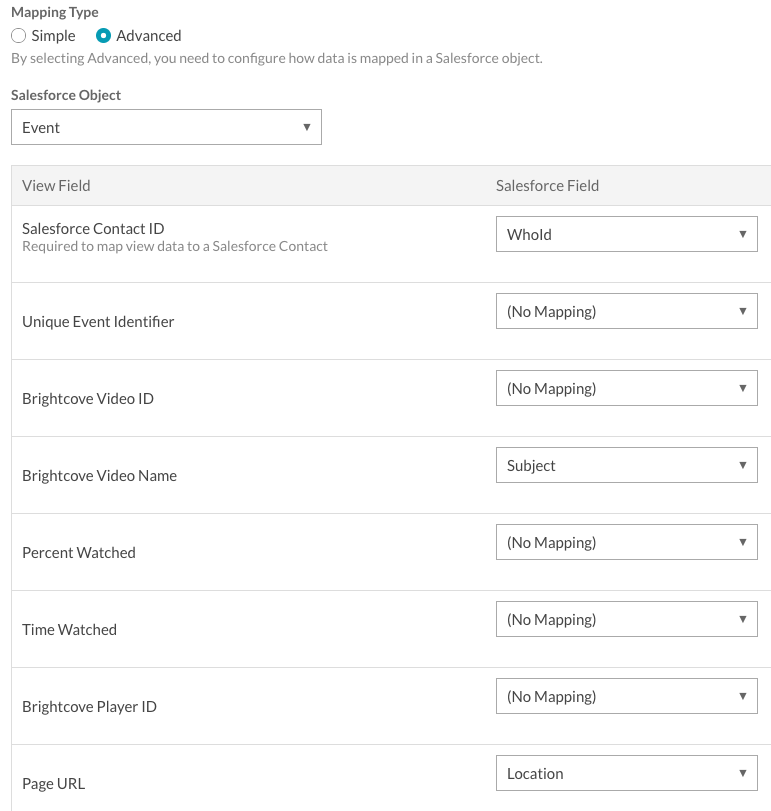
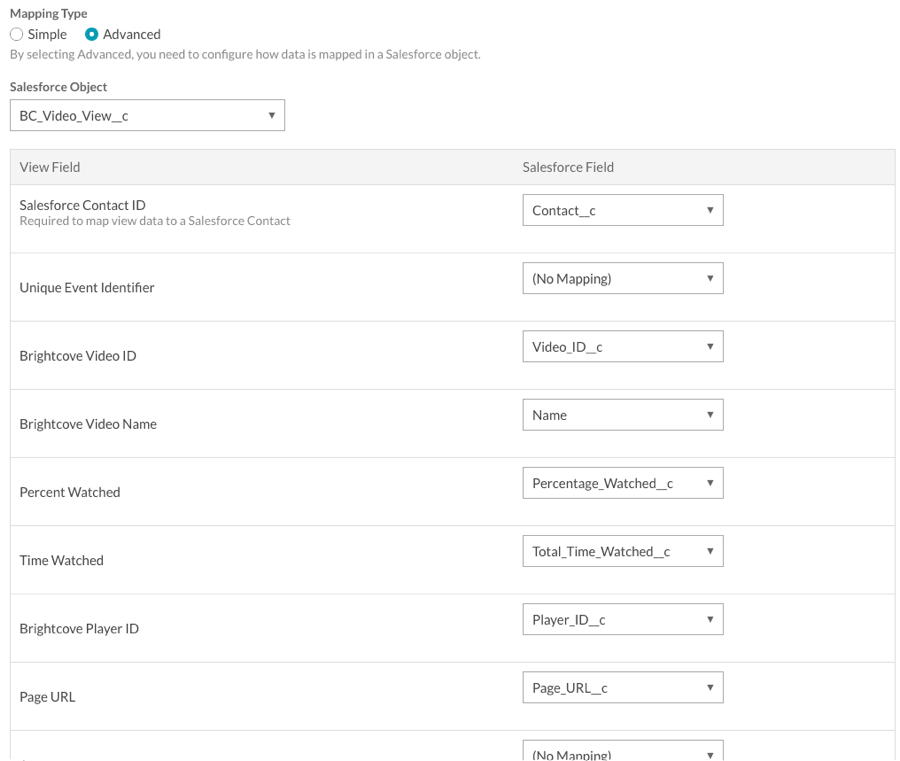
update salesforce screen shots

diff --git a/_site/admin/connecting-to-salesforce.html b/_site/admin/connecting-to-salesforce.html
@@ -480,7 +480,7 @@ function doGTranslate(lang_pair) {if(lang_pair.value)lang_pair=lang_pair.value;i
       <li>In the <strong>Salesforce Object</strong> dropdown list, select a Salesforce object to map the video data to. Typically, when using the Pardot integration type, you will map the view fields to the <a href="/admin/creating-salesforce-object-pardot.html">Salesforce custom object</a> you created.
         </p>
       </li>
-      <li>Map the appropriate <strong>View Field</strong> to Salesforce fields.
+      <li>Map the appropriate <strong>View Field</strong> to Salesforce fields. The following example shows the video fields being mapped to a custom object.
         <figure class="bcls-figure"><img class="bcls-image--no-border" alt="salesforce advanced mapping" src="/assets/images/admin/salesforce-adv-mapping.png" /></figure>
       </li>
       <li>Click <strong>Save</strong> to save the changes.</li>
@@ -521,10 +521,10 @@ function doGTranslate(lang_pair) {if(lang_pair.value)lang_pair=lang_pair.value;i
   </section>
   <section class="bcls-section">
     <h2 id="sfdata">Viewing video data in Salesforce</h2>
-    <p>As videos are viewed, video viewing data will be synced to Salesforce. If the <strong>Simple</strong> data mapping option was selected, video view data will appear as a <strong>Task</strong> entry inside Salesforce. If the <strong>Advanced</strong> data mapping option was used, viewing data will appear as part of the Salesforce object that was selecting when the mapping was configured. In the following example, <strong>Simple</strong> data mapping was used. Viewing data appears as part of the contact's <strong>Activity History</strong>. The <strong>Subject</strong> will display <strong>BC Video View</strong> along with the video name and percent watched.</p>
-    <figure class="bcls-figure"><img class="bcls-image--no-border" alt="salesforce task record" src="/assets/images/admin/salesforce-task-record.png" /></figure>
-    <p>Clicking the <strong>Task</strong> will display additional information in the <strong>Comments</strong> field.</p>
-    <figure class="bcls-figure"><img class="bcls-image--no-border" alt="salesforce task detail" src="/assets/images/admin/salesforce-task-detail.png" /></figure>
+    <p>As videos are viewed, video viewing data will be synced to Salesforce. If the <strong>Simple</strong> data mapping option was selected, video view data will appear as a <strong>Task</strong> entry inside Salesforce. If the <strong>Advanced</strong> data mapping option was used, viewing data will appear as part of the Salesforce object that was selecting when the mapping was configured. In the following example, <strong>Advanced</strong> data mapping was used and the video fields were mapped to a custom <strong>BC Video View</strong> Salesforce object.</p>
+    <figure class="bcls-figure"><img class="bcls-image--no-border" alt="salesforce task record" src="/assets/images/admin/salesforce-bc-video-view-record.png" /></figure>
+    <p>Clicking the video name will display detailed information.</p>
+    <figure class="bcls-figure"><img class="bcls-image--no-border" alt="salesforce task detail" src="/assets/images/admin/salesforce-bc-video-view-detail.png" /></figure>
   </section>
 </article>
 

diff --git a/admin/connecting-to-salesforce.html b/admin/connecting-to-salesforce.html
@@ -101,7 +101,7 @@ parent: Administering Accounts
       <li>In the <strong>Salesforce Object</strong> dropdown list, select a Salesforce object to map the video data to. Typically, when using the Pardot integration type, you will map the view fields to the <a href="/admin/creating-salesforce-object-pardot.html">Salesforce custom object</a> you created.
         </p>
       </li>
-      <li>Map the appropriate <strong>View Field</strong> to Salesforce fields.
+      <li>Map the appropriate <strong>View Field</strong> to Salesforce fields. The following example shows the video fields being mapped to a custom object.
         <figure class="bcls-figure"><img class="bcls-image--no-border" alt="salesforce advanced mapping" src="/assets/images/admin/salesforce-adv-mapping.png" /></figure>
       </li>
       <li>Click <strong>Save</strong> to save the changes.</li>
@@ -142,9 +142,9 @@ parent: Administering Accounts
   </section>
   <section class="bcls-section">
     <h2 id="sfdata">Viewing video data in Salesforce</h2>
-    <p>As videos are viewed, video viewing data will be synced to Salesforce. If the <strong>Simple</strong> data mapping option was selected, video view data will appear as a <strong>Task</strong> entry inside Salesforce. If the <strong>Advanced</strong> data mapping option was used, viewing data will appear as part of the Salesforce object that was selecting when the mapping was configured. In the following example, <strong>Simple</strong> data mapping was used. Viewing data appears as part of the contact's <strong>Activity History</strong>. The <strong>Subject</strong> will display <strong>BC Video View</strong> along with the video name and percent watched.</p>
-    <figure class="bcls-figure"><img class="bcls-image--no-border" alt="salesforce task record" src="/assets/images/admin/salesforce-task-record.png" /></figure>
-    <p>Clicking the <strong>Task</strong> will display additional information in the <strong>Comments</strong> field.</p>
-    <figure class="bcls-figure"><img class="bcls-image--no-border" alt="salesforce task detail" src="/assets/images/admin/salesforce-task-detail.png" /></figure>
+    <p>As videos are viewed, video viewing data will be synced to Salesforce. If the <strong>Simple</strong> data mapping option was selected, video view data will appear as a <strong>Task</strong> entry inside Salesforce. If the <strong>Advanced</strong> data mapping option was used, viewing data will appear as part of the Salesforce object that was selecting when the mapping was configured. In the following example, <strong>Advanced</strong> data mapping was used and the video fields were mapped to a custom <strong>BC Video View</strong> Salesforce object.</p>
+    <figure class="bcls-figure"><img class="bcls-image--no-border" alt="salesforce task record" src="/assets/images/admin/salesforce-bc-video-view-record.png" /></figure>
+    <p>Clicking the video name will display detailed information.</p>
+    <figure class="bcls-figure"><img class="bcls-image--no-border" alt="salesforce task detail" src="/assets/images/admin/salesforce-bc-video-view-detail.png" /></figure>
   </section>
 </article>
